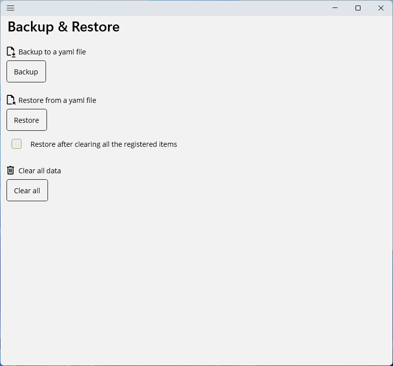
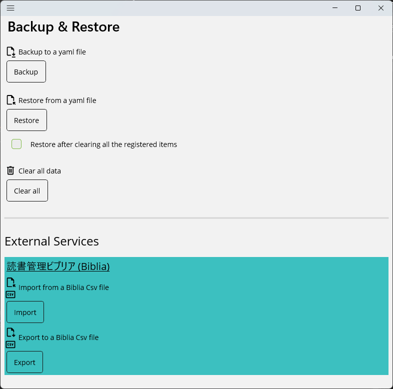
added external services again

diff --git a/docs/maui/en-US/windows/maui.md b/docs/maui/en-US/windows/maui.md
@@ -10,13 +10,13 @@ It works on Windows 11[^0] and Android[^2] smartphones with [.Net 9](https://dot
 
 You can register books by scanning their barcodes with the camera.
 
-<!-- You can also import records created with [読書管理ビブリア](https://biblia978.com/) or [ブクログ](https://booklog.jp/). -->
+You can also import records created with '[読書管理ビブリア](https://biblia978.com/)'.
 
 ### 1-1. Why I Created It
 
-I used to use a Reading Tracking App on an iPhone SE[^1], but after switching to a Google Pixel[^2], I needed a free, ad-free app.
+I used to use '読書管理ビブリア' on an iPhone SE[^1], but after switching to a Google Pixel[^2], I needed a free, ad-free app.
 
-I could have simply imported the CSV files exported from the App into existing Android apps <!--([Yomoo](https://play.google.com/store/apps/details?id=com.nosuke.yomoo&hl=ja), [bondavi’s record](https://play.google.com/store/apps/details?id=jp.bondavi.likes.global&hl=ja), [Book Manager](https://play.google.com/store/apps/details?id=com.bsy_web.bookmanager&hl=ja), etc.)-->, but I decided to implement my own app to address the following issues and add features:
+I could have simply imported the CSV files exported from '読書管理ビブリア' into existing Android apps <!--([Yomoo](https://play.google.com/store/apps/details?id=com.nosuke.yomoo&hl=ja), [bondavi’s record](https://play.google.com/store/apps/details?id=jp.bondavi.likes.global&hl=ja), [Book Manager](https://play.google.com/store/apps/details?id=com.bsy_web.bookmanager&hl=ja), etc.)-->, but I decided to implement my own app to address the following issues and add features:
 
 - Annoying advertisements  
 - Bugs that never get fixed  
@@ -276,6 +276,7 @@ The backup and restore screen contains, from top to bottom:
 - Backup button
 - Restore button
 - Delete all button
+- External services
 
 ### 4-1. Backup button
 
@@ -294,9 +295,9 @@ If you want to delete all existing records before restoring, check the [Restore 
 
 Click to delete all registered book records.
 
-<!-- ### 4-4. External services
+### 4-4. External services
 
-#### 4-4-1. Biblia
+#### 4-4-1. '読書管理ビブリア'
 
 - **Import**: Import the [CSV file](https://biblia978.com/support/articles/15/) exported to Dropbox by [読書管理ビブリア](https://biblia978.com/).  
 - **Export**: Export registered book records to a [CSV file](https://biblia978.com/support/articles/15/) that can be restored by [読書管理ビブリア](https://biblia978.com/).
@@ -309,16 +310,10 @@ Click to delete all registered book records.
   3. In Dropbox Lite, select `Dropbox/Apps/Biblia/books.csv` and save it to a local Windows folder (e.g., Documents) using “Save As.”  
   4. In **Book Techyo**, delete all records, then import the previously saved CSV file.
 
-- **To export from Book Techyo and restore in Biblia**
+- **To export from Book Techyo and restore in '読書管理ビブリア'**
   1. In **Book Techyo**, use the [Biblia] [Export] option and save the file as `books.csv`.  
   2. Upload the `books.csv` file to `Dropbox/Apps/Biblia` using Dropbox Lite.  
   3. In 読書管理ビブリア, delete all existing data and then perform a restore.
-
-#### 4-4-2. Booklog
-
-- **Import**: Import the [CSV file](https://booklog.zendesk.com/hc/ja/articles/360048930533-%E4%BB%96%E3%81%AE%E8%AA%AD%E6%9B%B8%E7%AE%A1%E7%90%86%E3%82%B5%E3%82%A4%E3%83%88%E3%81%8B%E3%82%89%E3%83%96%E3%82%AF%E3%83%AD%E3%82%B0%E3%81%B8%E3%83%87%E3%83%BC%E3%82%BF%E3%82%92%E7%A7%BB%E8%A1%8C%E3%81%97%E3%81%9F%E3%81%84%E3%81%A7%E3%81%99) exported from the web version of [ブクログ](https://booklog.jp/).  
-
-※ Export is not supported. -->
 
 ## 5. About Book Techyo
 

diff --git a/docs/maui/ja-JP/windows/maui.md b/docs/maui/ja-JP/windows/maui.md
@@ -10,13 +10,13 @@
 
 本のバーコードをカメラで読み取って登録できます。
 
-<!-- [読書管理ビブリア](https://biblia978.com/)や[ブクログ](https://booklog.jp/)で作成した記録も読み込めます。 -->
+[読書管理ビブリア](https://biblia978.com/)で作成した記録も読み込めます。
 
 ### 1-1. 作成した理由
 
-iPhone SE[^1]で読書管理アプリを使っていましたが、Google Pixel[^2]に代えたため、広告がなく無料で使えるアプリが必要になりました。
+iPhone SE[^1]で読書管理ビブリアを使っていましたが、Google Pixel[^2]に代えたため、広告がなく無料で使えるアプリが必要になりました。
 
-読書管理アプリでエクスポートしたCsvファイルを既存のアンドロイドアプリ<!-- （[Yomoo](https://play.google.com/store/apps/details?id=com.nosuke.yomoo&hl=ja)、[bondaviの記録](https://play.google.com/store/apps/details?id=jp.bondavi.likes.global&hl=ja)、[蔵書マネージャー](https://play.google.com/store/apps/details?id=com.bsy_web.bookmanager&hl=ja)、等）-->に読み込ませれば済んだのですが、以下解消したり、機能を追加すべく実装することにしました。
+読書管理ビブリアでエクスポートしたCsvファイルを既存のアンドロイドアプリ<!-- （[Yomoo](https://play.google.com/store/apps/details?id=com.nosuke.yomoo&hl=ja)、[bondaviの記録](https://play.google.com/store/apps/details?id=jp.bondavi.likes.global&hl=ja)、[蔵書マネージャー](https://play.google.com/store/apps/details?id=com.bsy_web.bookmanager&hl=ja)、等）-->に読み込ませれば済んだのですが、以下解消したり、機能を追加すべく実装することにしました。
 
 - 広告が煩わしい
 - 不具合が直らない
@@ -276,6 +276,7 @@ Windowsのスタートアップ等から、**読書の手帖（Book Techyo）** 
 - バックアップボタン
 - 復元ボタン
 - すべて削除ボタン
+- 他のサービス
 
 ### 4-1. バックアップボタン
 
@@ -294,7 +295,7 @@ Windowsのスタートアップ等から、**読書の手帖（Book Techyo）** 
 
 クリックすると登録している本の記録をすべて削除します。
 
-<!-- ### 4-4. 他のサービス
+### 4-4. 他のサービス
 
 ### 4-4-1. 読書管理ビブリア
 
@@ -314,7 +315,7 @@ Windowsのスタートアップ等から、**読書の手帖（Book Techyo）** 
   2. Dropbox Liteで「Dropbox/アプリ/Biblia」に上のbooks.csvをアップロードする
   3. 読書管理ビブリアで「すべてのデータを削除」を行ってのち、復元を実行する
 
-### 4-4-2. ブクログ
+<!-- ### 4-4-2. ブクログ
 
 - インポート：ウェブ版[ブクログ](https://booklog.jp/)のエクスポートで出力した[CSVファイル](https://booklog.zendesk.com/hc/ja/articles/360048930533-%E4%BB%96%E3%81%AE%E8%AA%AD%E6%9B%B8%E7%AE%A1%E7%90%86%E3%82%B5%E3%82%A4%E3%83%88%E3%81%8B%E3%82%89%E3%83%96%E3%82%AF%E3%83%AD%E3%82%B0%E3%81%B8%E3%83%87%E3%83%BC%E3%82%BF%E3%82%92%E7%A7%BB%E8%A1%8C%E3%81%97%E3%81%9F%E3%81%84%E3%81%A7%E3%81%99)をインポートします。
 

diff --git a/docs/maui/ja-JP/android/maui.md b/docs/maui/ja-JP/android/maui.md
@@ -10,7 +10,7 @@
 
 本のバーコードをカメラで読み取って登録できます。
 
-[読書管理ビブリア](https://biblia978.com/)や[ブクログ](https://booklog.jp/)で作成した記録も読み込めます。
+[読書管理ビブリア](https://biblia978.com/)で作成した記録も読み込めます。
 
 本アプリで提供するのメタデータの一部は、国立国会図書館サーチのAPIから取得した書誌データ（国立国会図書館が運営）に由来します。
 ライセンスは[クリエイティブ・コモンズ 表示 4.0 国際 パブリック・ライセンス](https://creativecommons.org/licenses/by/4.0/legalcode.ja)です。
@@ -224,14 +224,14 @@ iPhone SE[^1]で読書管理ビブリアを使っていましたが、Google Pix
   - ビブリア
     - インポートボタン
     - エクスポートボタン
-  - ブクログ
-    - インポートボタン
 
 があります。
 
 ### 4-1. バックアップボタン
 
 タップすると指定したファイルに、登録した本の記録をYamlで出力します。
+
+出力したYamlファイルはオンラインストレージなど端末の外部にも保存しておくことをお勧めします。
 
 ### 4-2. 復元ボタン
 
@@ -263,10 +263,6 @@ iPhone SE[^1]で読書管理ビブリアを使っていましたが、Google Pix
   1. **読書の手帖**の[ビブリア] [エクスポート]でファイル名にbooks.csvを指定して保存する
   2. Dropbox アプリで「Dropbox/アプリ/Biblia」に上のbooks.csvをアップロードする
   3. 読書管理ビブリアで「すべてのデータを削除」を行ってのち、復元を実行する
-
-### 4-4-2. ブクログ
-
-- インポート：ウェブ版[ブクログ](https://booklog.jp/)のエクスポートで出力した[CSVファイル](https://booklog.zendesk.com/hc/ja/articles/360048930533-%E4%BB%96%E3%81%AE%E8%AA%AD%E6%9B%B8%E7%AE%A1%E7%90%86%E3%82%B5%E3%82%A4%E3%83%88%E3%81%8B%E3%82%89%E3%83%96%E3%82%AF%E3%83%AD%E3%82%B0%E3%81%B8%E3%83%87%E3%83%BC%E3%82%BF%E3%82%92%E7%A7%BB%E8%A1%8C%E3%81%97%E3%81%9F%E3%81%84%E3%81%A7%E3%81%99)をインポートします。
 
 ## 5. お問い合わせ
 
